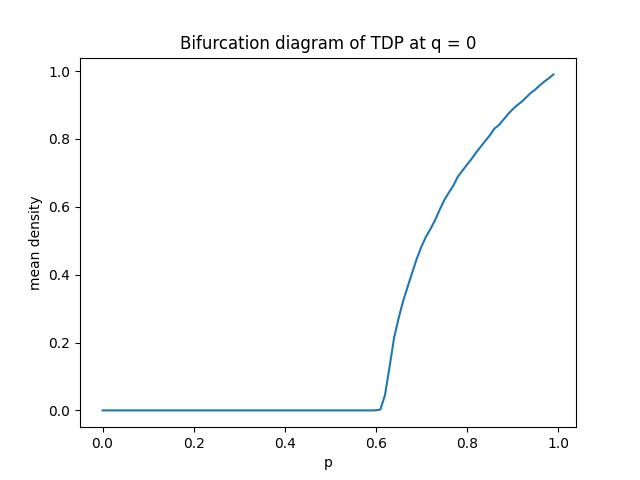
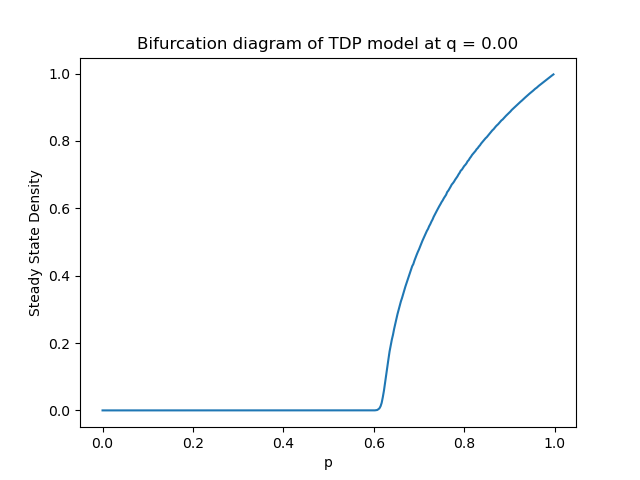
Init repo for sim on c1

diff --git a/terminal.py b/terminal.py
@@ -25,11 +25,11 @@ from utils import load_automaton_data
 if __name__ == '__main__':
     num_simulations = 100
     p_range = arange(0, 1, 0.0025)
-    q = 0.92
+    q = 0.25
     densities = zeros(len(p_range), dtype=float)
 
     for i, p in enumerate(p_range):
-        print(f"Simulation p = {p:.3f}")
+        print(f"Simulation p = {p:.4f}")
         densities[i] = tricritical_fast(p, q, num_parallel=num_simulations, save=False)
 
     plt.title(f"Bifurcation diagram of TDP model at q = {q:.2f}")
